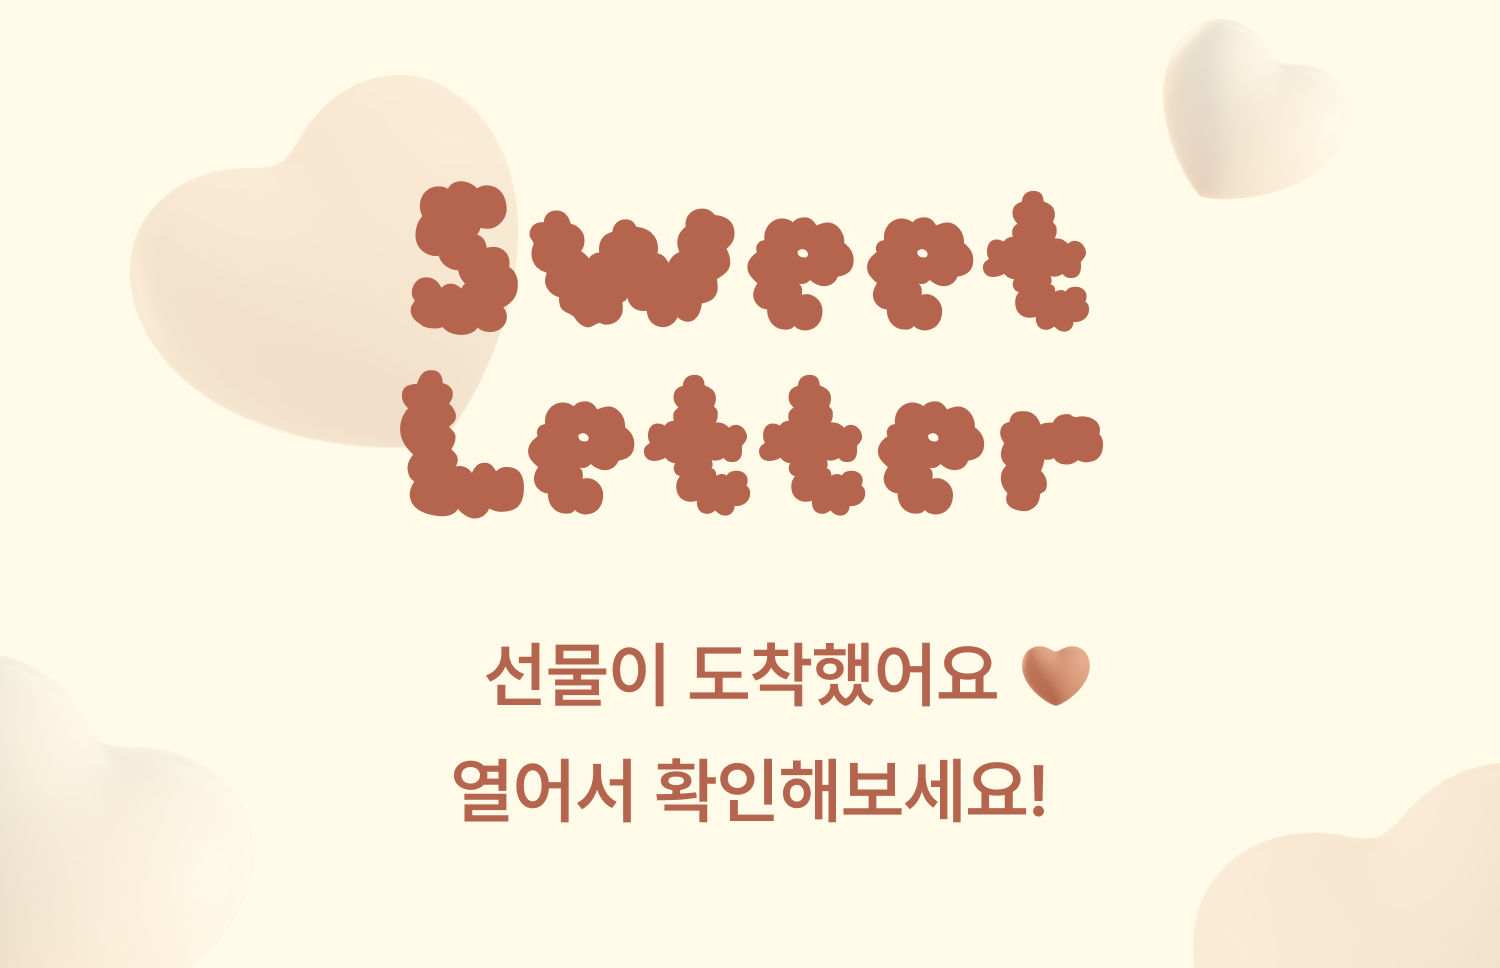
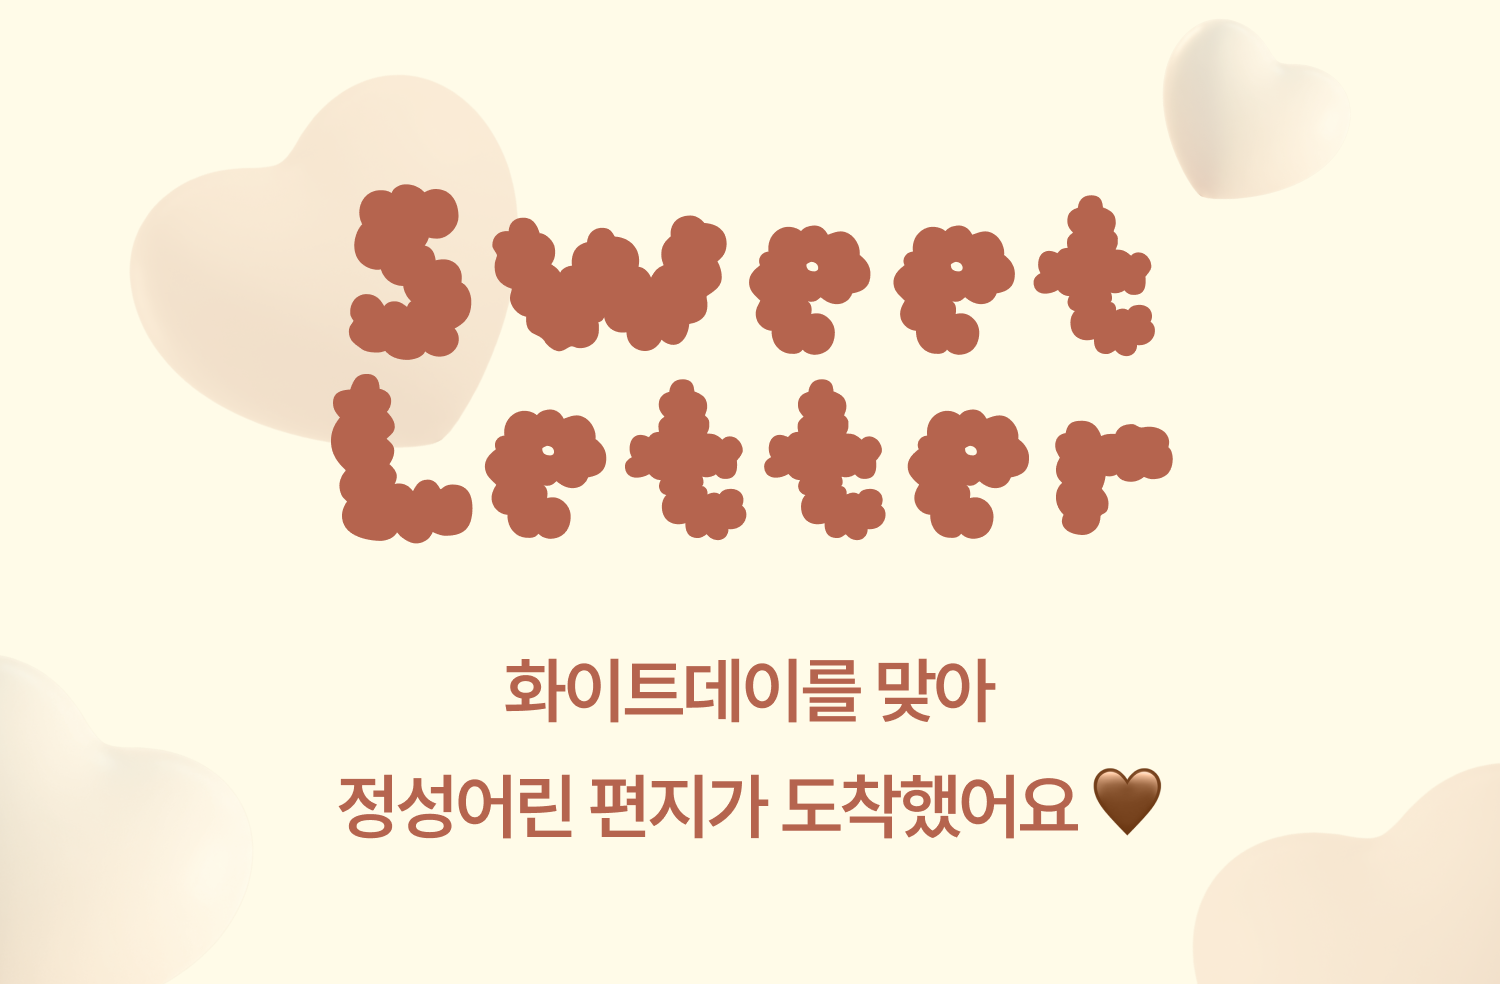
feat: 카카오톡 공유하기 이미지 및 텍스트 수정 (#129)

Changed region(s): [[0.184, 0.186, 0.7973, 0.5579], [0.2147, 0.7748, 0.7973, 0.8678], [0.3067, 0.6508, 0.736, 0.7438]]

diff --git a/src/components/white-day/kakao-share-button.tsx b/src/components/white-day/kakao-share-button.tsx
@@ -1,7 +1,6 @@
 "use client";
 
 import Icon from "@/src/components/common/icon/icon";
-import { WHITE_DAY_RESULT_BY_MBTI } from "@/src/components/white-day/data/desserts";
 import { Gift } from "@/src/components/white-day/step-5";
 
 interface KakaoShareButtonProps {
@@ -13,8 +12,6 @@ export default function KakaoShareButton({
   giftId,
   gift,
 }: KakaoShareButtonProps) {
-  const mbtiResultTitle = WHITE_DAY_RESULT_BY_MBTI[gift.mbti].title;
-
   const handleClickShare = () => {
     if (!window.Kakao) return;
 
@@ -25,8 +22,8 @@ export default function KakaoShareButton({
     window.Kakao.Share.sendDefault({
       objectType: "feed",
       content: {
-        title: "iBe - 행운 뽑기 | 선물이 도착했어요!",
-        description: `To. ${gift.receiver}\n${mbtiResultTitle} 💌`,
+        title: "iBe - 행운 뽑기 | 편지가 도착했어요!",
+        description: `To. ${gift.receiver}`,
         imageUrl: `https://ibe-lucky.vercel.app/white-day/share-thumbnail.png`,
         imageWidth: 375,
         imageHeight: 242,
@@ -37,7 +34,7 @@ export default function KakaoShareButton({
       },
       buttons: [
         {
-          title: "선물 받으러 가기",
+          title: "편지 읽으러 가기",
           link: {
             mobileWebUrl: targetUrl,
             webUrl: targetUrl,
